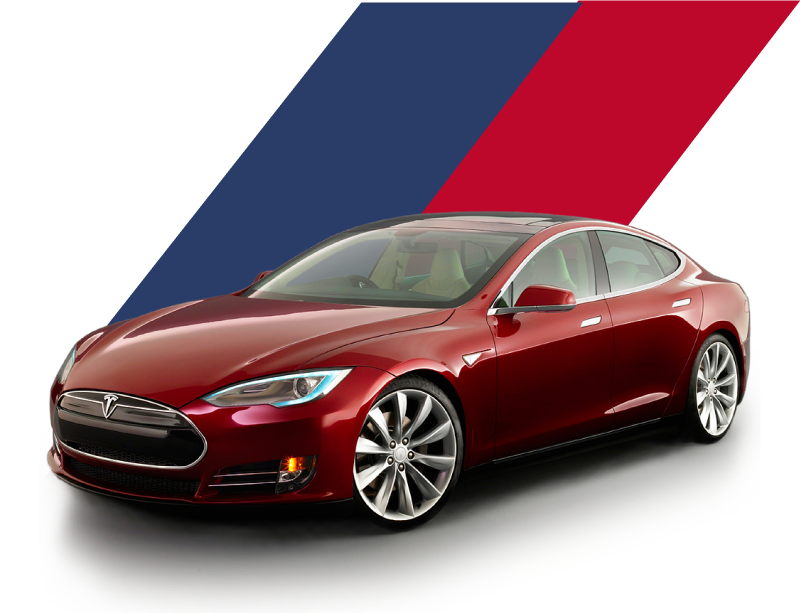
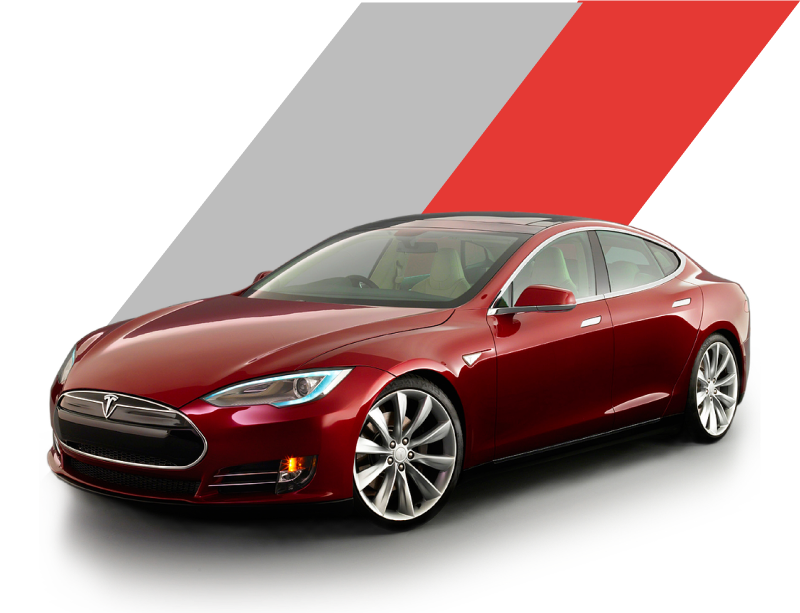
19656 Главная страница

Changed region(s): [[0.125, 0.0, 1.0, 0.5269]]

diff --git a/resources/less/partials/section-social.less b/resources/less/partials/section-social.less
@@ -27,7 +27,7 @@
         justify-content: flex-end;
         a {
             color: #fff;
-            background: var(--blue);
+            background: var(--red);
             border-radius: 4px;
             height: 40px;
             width: 40px;
@@ -36,7 +36,7 @@
             justify-content: center;
             align-items: center;
             &:hover {
-                background: var(--red);
+                background: var(--blue);
             }
             & + * {
                 margin-left: 70px;

diff --git a/resources/less/partials/components/footer.less b/resources/less/partials/components/footer.less
@@ -73,7 +73,7 @@
         flex: 1;
         a {
             color: #fff;
-            background: var(--blue);
+            background: var(--red);
             border-radius: 4px;
             margin-right: 43px;
             height: 25px;
@@ -84,7 +84,7 @@
             justify-content: center;
             align-items: center;
             &:hover {
-                background: var(--red);
+                background: var(--blue);
             }
         }
     }

diff --git a/resources/less/partials/common.less b/resources/less/partials/common.less
@@ -2,7 +2,7 @@
 @import "components/forms.less";
 :root {
     // Colors
-    --red: #BD072B;
+    --red: #E53934;
     --blue: #2A3D68;
     --gray: #333333;
     --orange: #F2994A;

diff --git a/resources/views/html/index.blade.php b/resources/views/html/index.blade.php
@@ -21,7 +21,7 @@
         <h1 class="h1">
             <span class="color-red">Автомобілі</span>
         </h1>
-        <div class="h2 color-blue-xs">з будь-якого континенту,<br> в наявності та під замовлення</div>
+        <div class="h2">з будь-якого континенту,<br> в наявності та під замовлення</div>
         <picture class="img">
             <source type="image/webp" srcset="{{ asset('img/example/img_3.webp') }}" media="(max-width: 767px)">
             <source type="image/webp" srcset="{{ asset('img/example/img_2.webp') }}" media="(min-width: 768px)">
@@ -30,7 +30,7 @@
         <br>
         <br>
         <span class="line hidden-xs"></span>
-        <div class="h3 color-blue color-red-xs">Економія <strong>до 40%</strong> від ринкової<br> вартості</div>
+        <div class="h3">Економія <strong>до 40%</strong> від ринкової<br> вартості</div>
     </div>
 </div>
 <!-- ///:end/// -->

diff --git a/resources/views/layouts/app.blade.php b/resources/views/layouts/app.blade.php
@@ -16,7 +16,7 @@
 
         <header class="main-header container">
             <a href="/" class="logo" aria-label="logo">
-                <img width="115" height="41" src="{{ asset('img/logo.svg') }}" alt="">
+                <img width="134" height="59" src="{{ asset('img/logo.svg') }}" alt="">
             </a>
 
             <form class="search" action="#">
